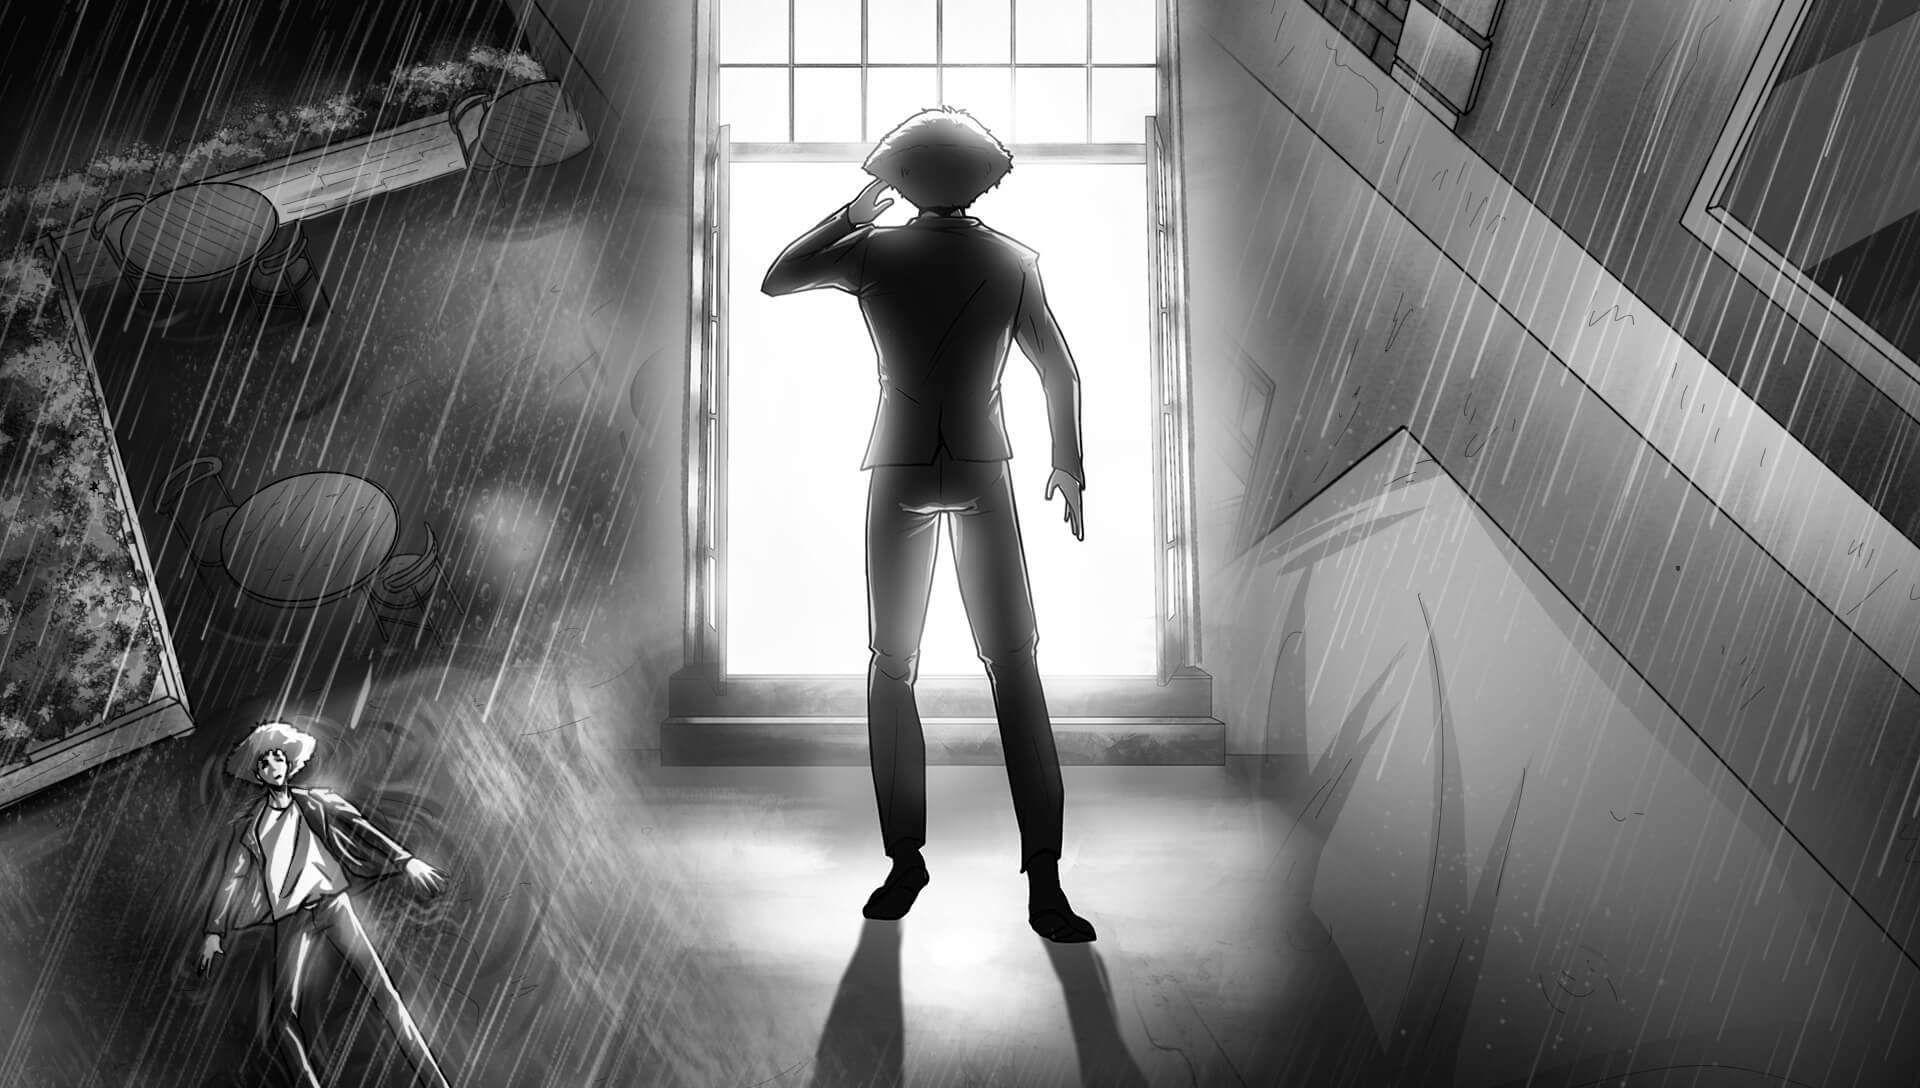
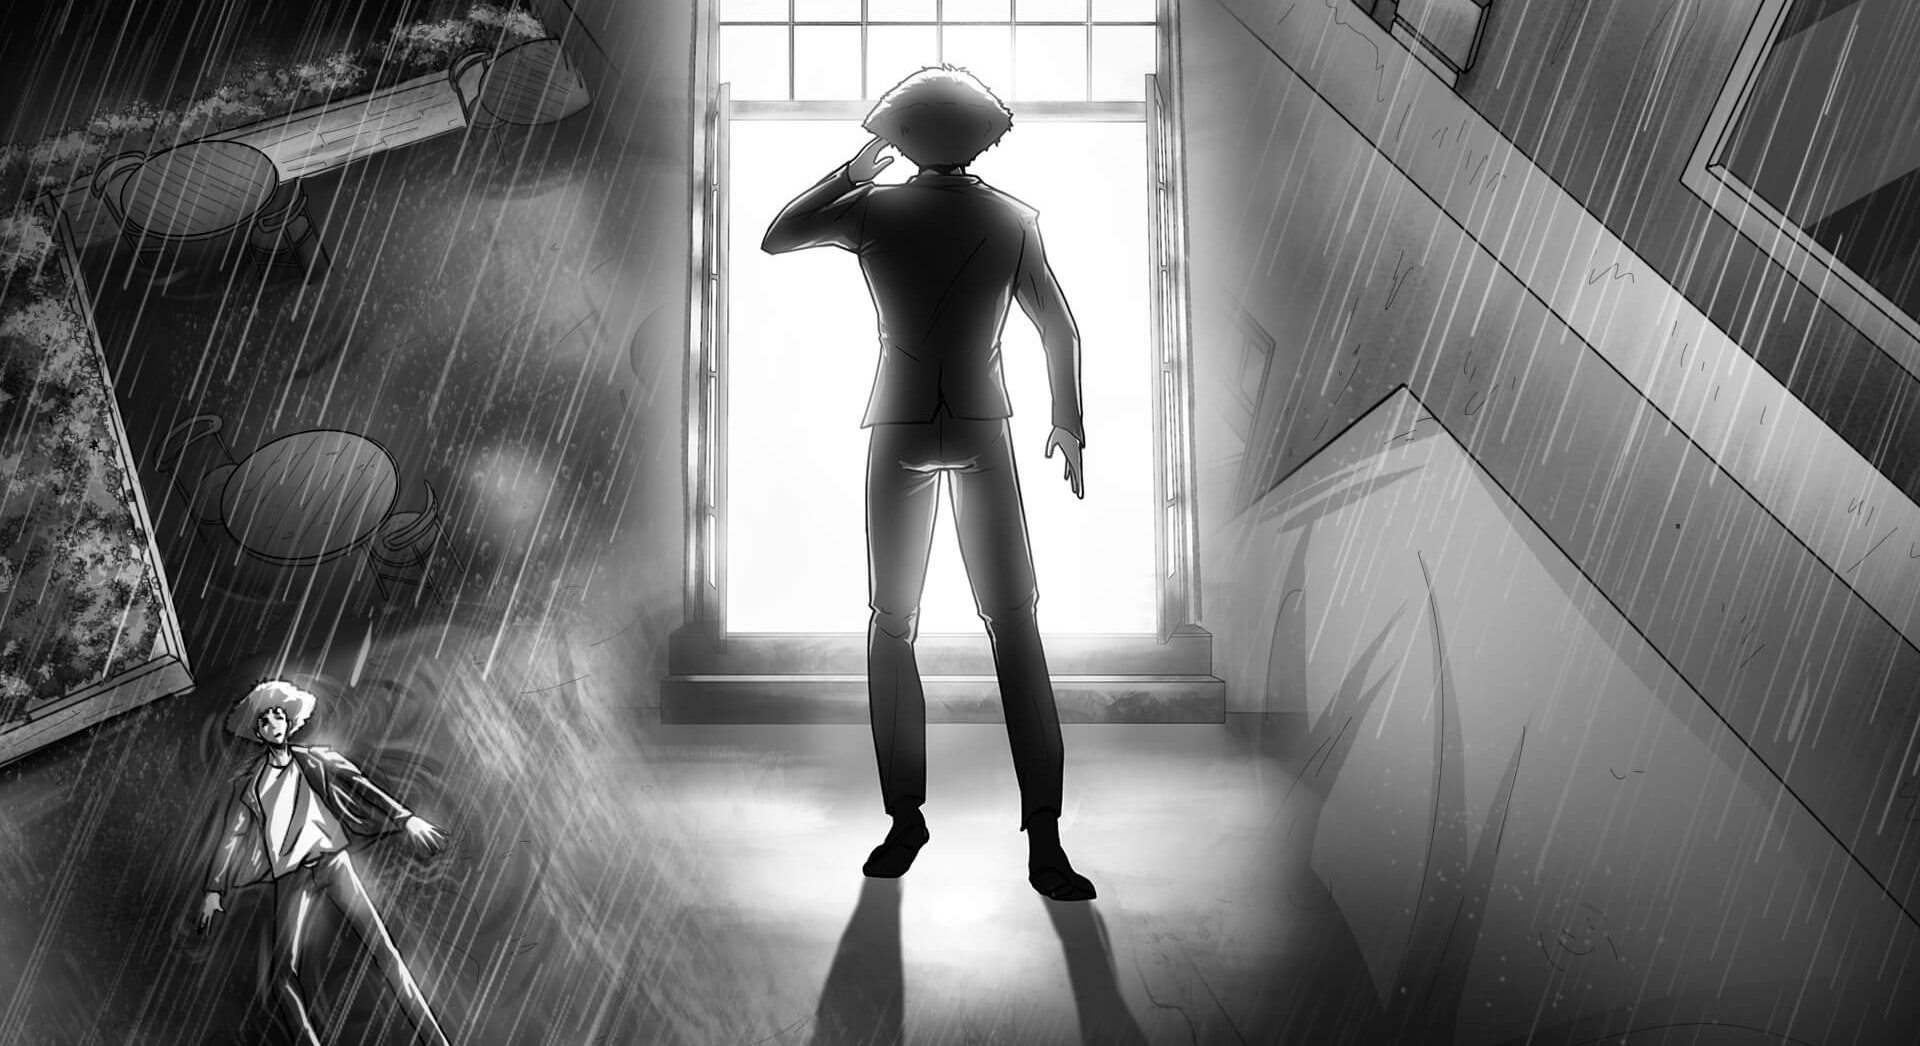
Nft page image grascale

diff --git a/src/pages/NFTPage/NFTPage.tsx b/src/pages/NFTPage/NFTPage.tsx
@@ -18,6 +18,12 @@ const useStyles = makeStyles((theme: Theme) => ({
     backgroundPositionY: "bottom",
     backgroundPositionX: "center",
   },
+  img: {
+    filter: "saturate(0)",
+    "&:hover": {
+      filter: "saturate(1)",
+    },
+  },
 }));
 
 interface Props {}
@@ -34,7 +40,7 @@ const NFTPage: React.FC<Props> = () => {
         <LogoBar />
         <Grid container spacing={4} style={{ marginTop: 50 }}>
           <Grid item xs={12} sm={6} md={4}>
-            <Image src={nftData.metadata?.image} />
+            <Image src={nftData.metadata?.image} className={classes.img} />
           </Grid>
           <Grid item xs={12} sm={6} md={8}>
             <Details

diff --git a/src/components/Image/Image.tsx b/src/components/Image/Image.tsx
@@ -3,9 +3,10 @@ import React from "react";
 
 interface IProps {
   src?: string;
+  className?: string;
 }
 
-const Image: React.FC<IProps> = ({ src }) => {
+const Image: React.FC<IProps> = ({ src, className = "" }) => {
   const [loaded, setLoaded] = React.useState(false);
 
   return (
@@ -17,6 +18,7 @@ const Image: React.FC<IProps> = ({ src }) => {
           setLoaded(true);
         }}
         style={{ display: loaded ? "initial" : "none", width: "100%" }}
+        className={className}
       />
       {!loaded && (
         <Skeleton variant="rectangular" width="100%" style={{ aspectRatio: "1/1", height: "auto" }} component={Paper} />
